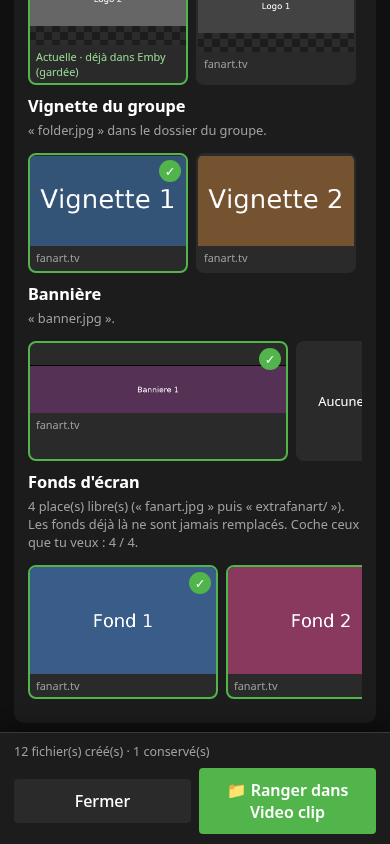
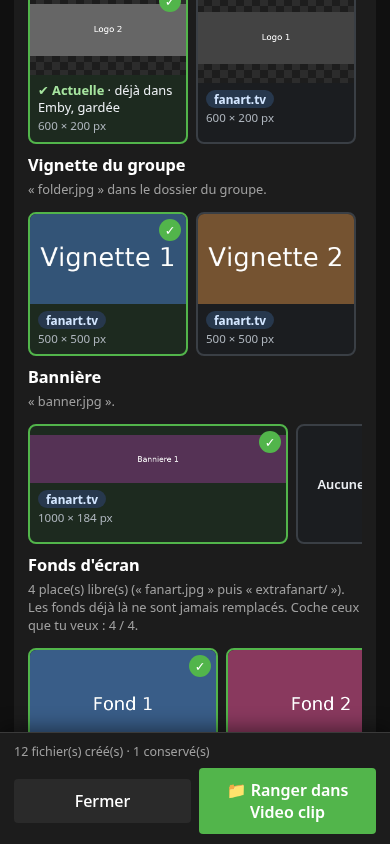
Fiche : cases d'images sombres imposées, source en étiquette lisible, taille de chaque image
Claude-Session: https://claude.ai/code/session_019jd7bFnsnV7dE7F7voaq7N

diff --git a/templates/index.html b/templates/index.html
@@ -95,6 +95,21 @@
     .fi-barre .btn { padding:11px 14px; }
     @media (max-width:560px) { .fi-barre { flex-wrap:wrap; } .fi-barre .resume { flex:1 1 100%; } .fi-barre .btn { flex:1; } }
     @media (max-width:560px) { .fi-entete { flex-direction:column; align-items:flex-start; } .fi-entete .affiche { width:100%; max-width:none; } }
+
+    /* cases d'images : fond sombre IMPOSÉ (les styles de boutons du thème ne doivent pas les colorer) et légendes lisibles */
+    #fiche button.vign { background:#1b1d20 !important; color:#eceff3 !important; border:2px solid #3a3f45 !important; box-shadow:none !important; font-weight:400 !important; }
+    #fiche button.vign:hover { border-color:#6b737c !important; }
+    #fiche button.vign.sel { border-color:var(--accent) !important; background:#1d2a1f !important; }
+    #fiche button.vign.fixe { opacity:.8; }
+    #fiche button.vign small { display:block; padding:7px 8px 8px; font-size:.8rem; line-height:1.35; color:#eceff3 !important; background:transparent !important; }
+    #fiche .vign .src { display:inline-block; padding:1px 8px; border-radius:10px; font-weight:700; font-size:.74rem; background:#27384d; color:#d3e6ff; }
+    #fiche .vign .src.audiodb { background:#3d2b4f; color:#efdcff; }
+    #fiche .vign .src.video { background:#2f3f2c; color:#d9f2d4; }
+    #fiche .vign .actu { color:#a6e49f; font-weight:700; }
+    #fiche .vign .remp { color:#f4c76e; font-weight:600; }
+    #fiche .vign .dim { display:block; color:#aeb5bd; font-size:.72rem; margin-top:2px; }
+    #fiche button.vign.aucune { color:#eceff3 !important; font-weight:600 !important; }
+    #fiche .vign .coche { background:var(--accent); }
     /* barre des téléchargements : toujours visible en bas, la page reste défilable derrière ; un toucher déplie la liste */
     #travaux { position:fixed; left:0; right:0; bottom:0; z-index:50; margin:0; padding:0; border-radius:12px 12px 0 0; box-shadow:0 -4px 18px rgba(0,0,0,.45); max-width:960px; margin-left:auto; margin-right:auto; }
     #travaux[hidden] { display:none; }
@@ -371,18 +386,22 @@ let FI = null;
 const urlPoster = (id, pid) => '/api/travaux/' + id + '/poster/' + pid;
 const urlExistant = chemin => '/api/existant?chemin=' + encodeURIComponent(chemin);
 const dureeMin = s => s ? Math.floor(s / 60) + ' min ' + String(Math.round(s % 60)).padStart(2, '0') + ' s' : '';
-function vign(classe, url, legende, sel, attrs, extra) {
-    return `<button type="button" class="vign ${classe}${sel ? ' sel' : ''}" ${attrs || ''}><img loading="lazy" referrerpolicy="no-referrer" src="${esc(url)}" alt=""><span class="coche">✓</span><small>${legende}</small></button>`;
+function etiquette(source) {                                          // « fanart.tv » / « TheAudioDB » en étiquette colorée
+    const cls = source === 'TheAudioDB' ? 'audiodb' : source === 'vidéo' ? 'video' : '';
+    return `<span class="src ${cls}">${esc(source)}</span>`;
+}
+function vign(classe, url, legende, sel, attrs) {
+    return `<button type="button" class="vign ${classe}${sel ? ' sel' : ''}" ${attrs || ''}><img loading="lazy" referrerpolicy="no-referrer" src="${esc(url)}" alt="" onload="var d=this.parentNode.querySelector('.dim');if(d)d.textContent=this.naturalWidth+' × '+this.naturalHeight+' px'"><span class="coche">✓</span><small>${legende}<span class="dim"></span></small></button>`;
 }
 function bandeImages(typeCss, bloc, cle) {
     // une image du groupe ou de l'album : « actuelle » (déjà dans Emby), les propositions, « aucune »
     const ex = bloc.existant && bloc.existant.present, ch = bloc.choisi;
     const defautActuelle = ex && ch === null;
     let t = '';
-    if (ex) t += vign(typeCss + ' actuelle', urlExistant(bloc.existant.chemin), 'Actuelle · déjà dans Emby (gardée)', defautActuelle, `data-cle="${cle}" data-url="__garder__"`);
+    if (ex) t += vign(typeCss + ' actuelle', urlExistant(bloc.existant.chemin), '<span class="actu">✔ Actuelle</span> · déjà dans Emby, gardée', defautActuelle, `data-cle="${cle}" data-url="__garder__"`);
     bloc.candidats.forEach((c, i) => {
         const sel = ch === c.url || (ch === null && !ex && i === 0);
-        t += vign(typeCss, c.url, esc(c.source) + (ex && sel ? ' · remplacera l’actuelle' : ''), sel, `data-cle="${cle}" data-url="${esc(c.url)}"`);
+        t += vign(typeCss, c.url, etiquette(c.source) + (ex && sel ? ' <span class="remp">♻ remplacera l’actuelle</span>' : ''), sel, `data-cle="${cle}" data-url="${esc(c.url)}"`);
     });
     if (!bloc.candidats.length && !ex) t += '<div class="muted" style="padding:10px">Aucune image trouvée.</div>';
     t += `<button type="button" class="vign aucune${ch === '' ? ' sel' : ''}" data-cle="${cle}" data-url="">Aucune<span class="coche">✓</span></button>`;
@@ -408,8 +427,8 @@ function rendreFiche() {
     const v = c.video, a = c.audio, vol = c.volume || {};
     // fonds d'écran : emplacements déjà occupés + propositions à cocher pour les places libres
     const choisisFonds = g.fanart.choisis === null ? g.fanart.candidats.slice(0, g.fanart.libres).map(x => x.url) : g.fanart.choisis;
-    const fonds = g.fanart.existants.filter(x => x.present).map(x => vign('fond fixe', urlExistant(x.chemin), 'Déjà dans Emby · ' + esc(x.fichier), false, 'disabled'))
-        .concat(g.fanart.candidats.map(x => vign('fond', x.url, esc(x.source), choisisFonds.includes(x.url), `data-fond="${esc(x.url)}"`))).join('');
+    const fonds = g.fanart.existants.filter(x => x.present).map(x => vign('fond fixe', urlExistant(x.chemin), '<span class="actu">✔ Déjà dans Emby</span> · ' + esc(x.fichier), false, 'disabled'))
+        .concat(g.fanart.candidats.map(x => vign('fond', x.url, etiquette(x.source), choisisFonds.includes(x.url), `data-fond="${esc(x.url)}"`))).join('');
     $('ficheCorps').innerHTML = `
     <div class="fi-hero" style="${fond ? `background-image:url('${esc(fond)}')` : ''}">
         <div class="fi-haut"><button class="btn small ghost" data-fermer="1">← Retour</button><span class="pill ok">🧾 Fiche · ce qui sera dans Emby</span></div>
@@ -432,7 +451,7 @@ function rendreFiche() {
             <dt>Fichier</dt><dd>${esc(c.destination)}</dd>
         </dl>
         <h3 style="margin-top:12px">Poster du clip</h3><div class="aide">L'image qui s'affichera sur la vignette du clip dans Emby (« …-poster.jpg »).</div>
-        <div class="bande">${c.posters.map(p => vign('fond', urlPoster(f.id, p.id), esc(p.label), p.id === posterId, `data-poster="${esc(p.id)}"`)).join('')}</div>
+        <div class="bande">${c.posters.map(p => vign('fond', urlPoster(f.id, p.id), (p.id === 'yt' ? etiquette('YouTube') : etiquette('vidéo')) + ' ' + esc(p.label), p.id === posterId, `data-poster="${esc(p.id)}"`)).join('')}</div>
       </section>
       <section class="fi"><h3>🔗 Lien avec Emby</h3>${blocEmby(f)}</section>
       <section class="fi"><h3>🎤 Le groupe : ${esc(g.nom)}</h3>
